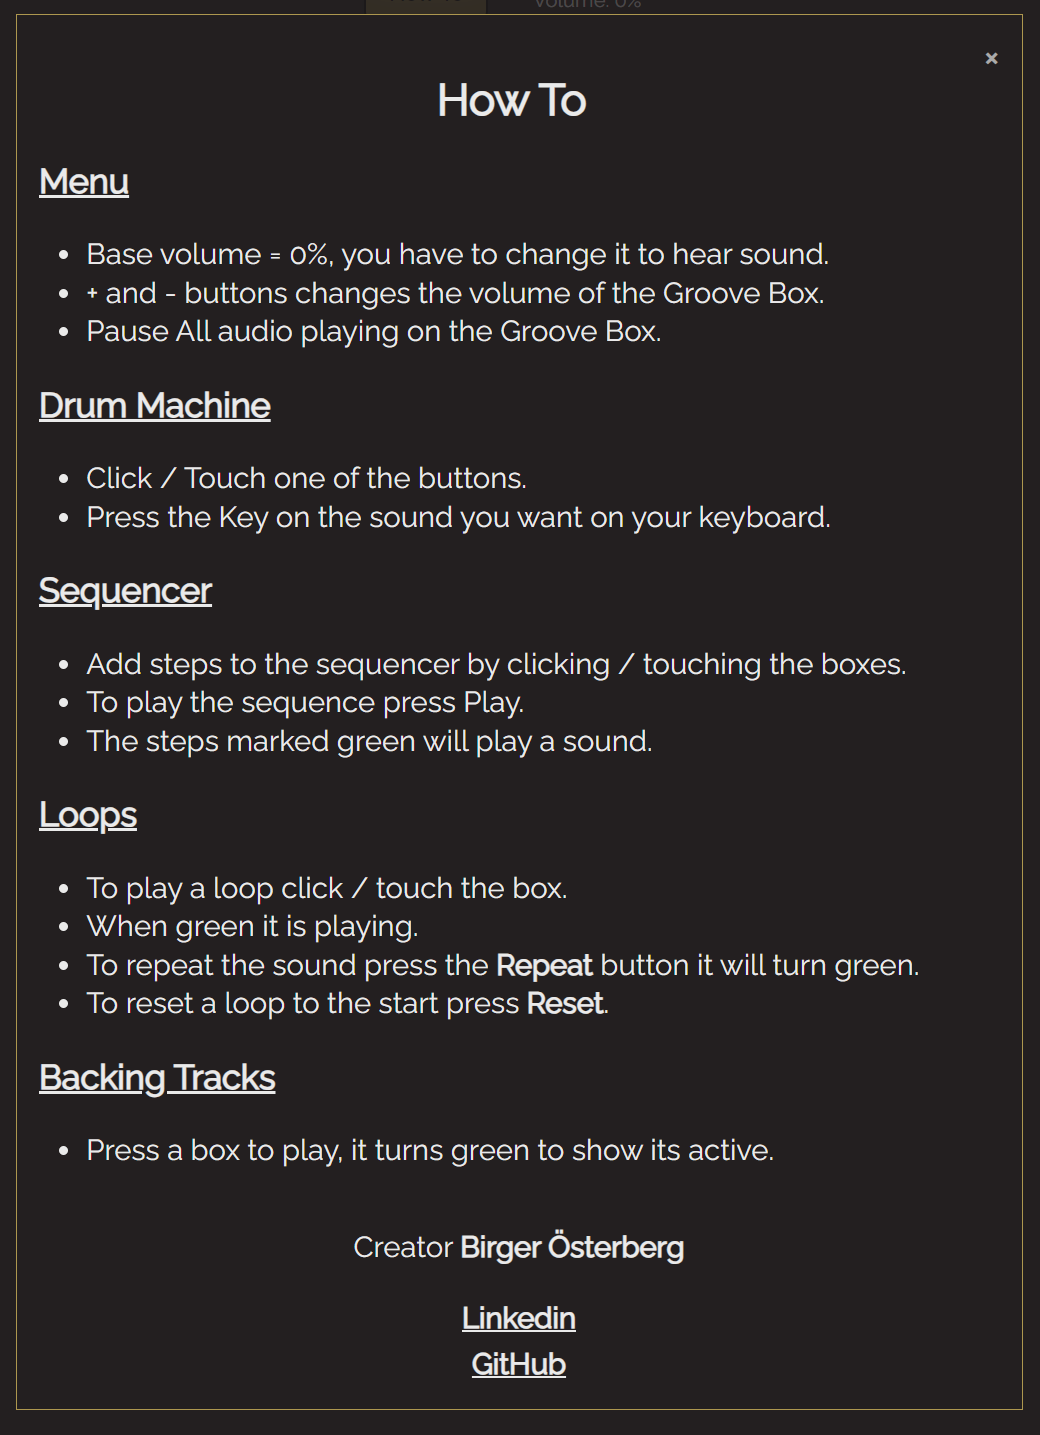
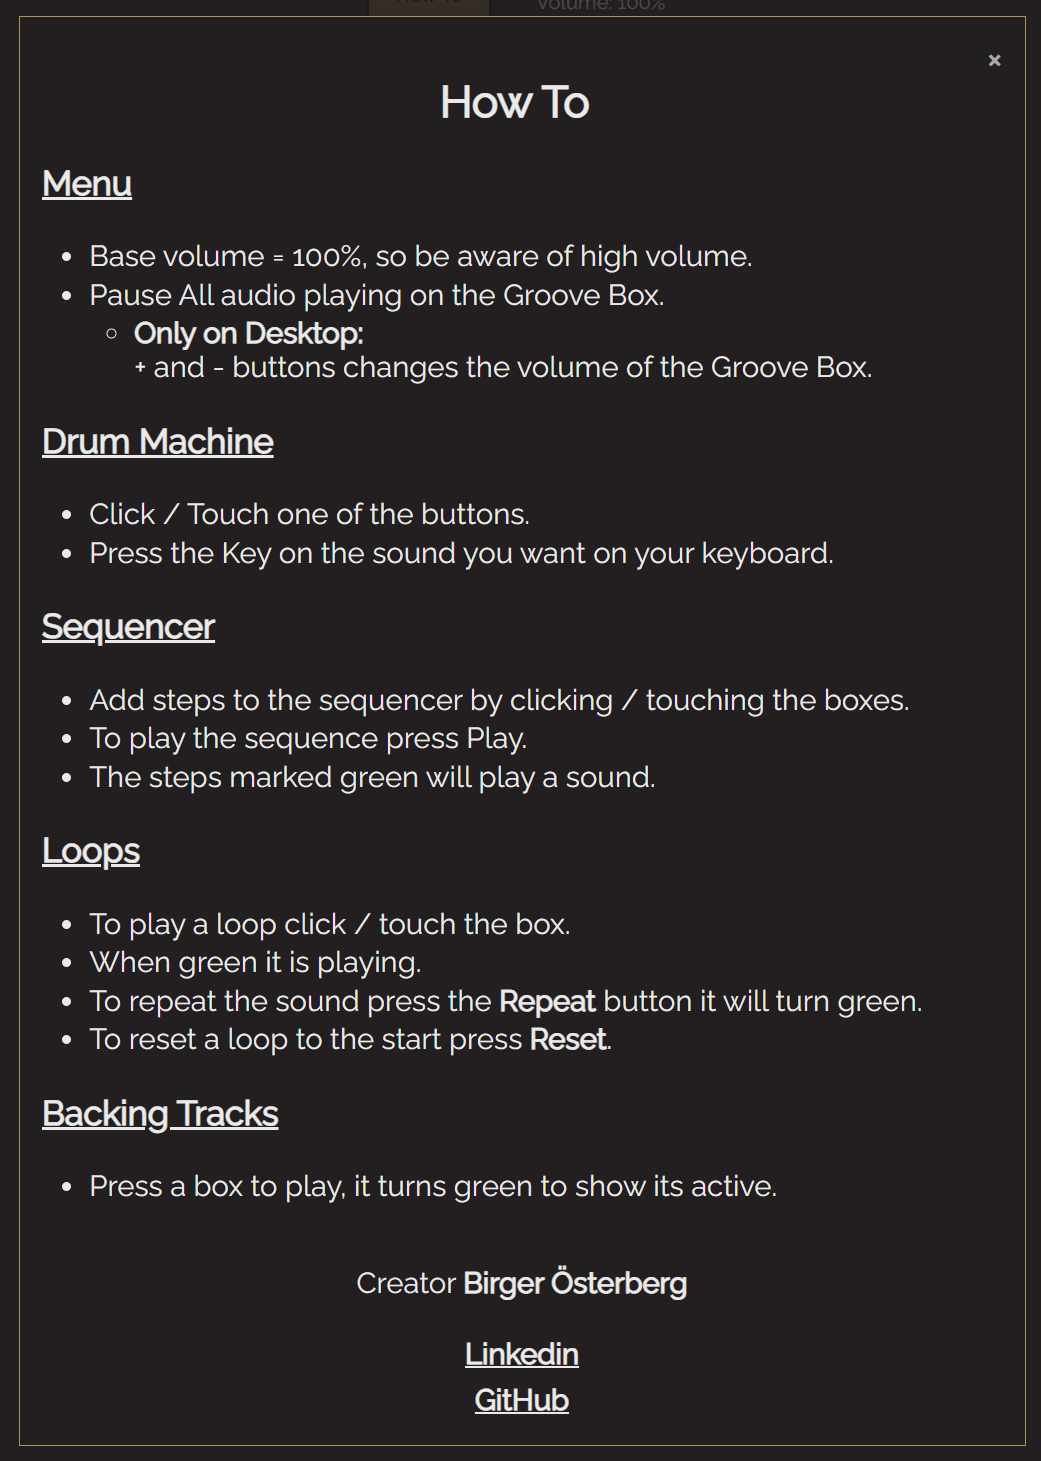
readme add testing

diff --git a/assets/js/index.js b/assets/js/index.js
@@ -193,7 +193,7 @@ function keyPlay(event) {
 }
 
 //
-//    Trying to get this sequencer to work!
+//    My sequencer playing a kick drum sound! Untz Untz!
 //
 
 const sequencers = document.querySelectorAll(".sequencer"); // selects all the elements with the class name of sequencer.
@@ -243,7 +243,7 @@ function playActiveSequencers() {
   currentStep = (currentStep + 1) % sequencers.length;
 
   if (isPlaying) {
-    setTimeout(playActiveSequencers, 300); // Add a delay between each step ToDo: (add choices to change the BPM!)
+    setTimeout(playActiveSequencers, 400); // Add a delay between each step ToDo: (add choices to change the BPM!)
   }
 }
 

diff --git a/README.md b/README.md
@@ -47,7 +47,7 @@ I have implemented a basic h1 header as the logo, featuring a sleek and elegant 
 
 ### **Menu**
 
-I've added a menu at the top of the groove box with a "How To" section for instructions and a pause button to stop all active audio. It also includes a volume control with a text display showing the percentage and + / - buttons for 10% adjustments. This menu enhances usability and offers quick access to important features for an improved user experience.
+I've added a menu at the top of the groove box with a "How To" section for instructions and a pause button to stop all active audio. It also includes a volume control with a text display showing the percentage and + / - buttons for 10% adjustments. The volume control specifically works on desktop setups as volume adjustments on mobile and tablet devices are easily accessible. This menu enhances usability and offers quick access to important features for an improved user experience.
 
 The How To is also where i decided to put what usually is footer content with info about me and contact details, to keep the Groove Box just as that, a Groove Box, giving it a more "App" feeling and something elegant.
 
@@ -235,7 +235,7 @@ I strived to achieve near-perfect scores across all metrics, aiming for a solid 
 
 ### **Validation**
 
-W3C Testing reported errors related to the usage of aria-labels on the div elements. These errors were triggered because i used the tab navigation design to navigate through the elements and had to provide explanations for their functionalities. To enhance accessibility, I also included the accesskey attribute.
+W3C Testing reported errors related to the usage of aria-labels on the div elements. These errors were triggered because i used the tab navigation design to navigate through the elements and had to provide explanations for their functionalities. Also i had to add aria-labels to the sequencer div boxes to further enhance accessibility, I also included the accesskey attribute.
 
 In order to address the warnings, I had the option to remove the explanations. However, I believe that I should consider the warnings as an opportunity to improve accessibility.
 
@@ -245,9 +245,83 @@ Jigsaw passed without any warnings!
 
 ![jigsaw](assets/readme/jigsaw.png)
 
-In the Jshint report, it states that there are seven unused variables in my code. This is because I reference them inside the HTML through onclick handlers. Afterwards, i considered using click listeners instead, which would have resolved the issue. However, I decided to stick with the current approach for the sake of consistency since i had already implemented it this way. Additionally, rewriting the code would have required considerable effort and i didn't have the energy nor time to undertake that task at the time.
+In the Jshint report, it states that there are five unused variables in my code. This is because I reference them inside the HTML through onclick handlers. Afterwards, i considered using click listeners instead, which would have resolved the issue. However, I decided to stick with the current approach for the sake of consistency since i had already implemented it this way. Additionally, rewriting the code would have required considerable effort and i didn't have the energy nor time to undertake that task at the time.
 
 ![jshint](assets/readme/jshint.png)
+
+### **Testing the Groove Box**
+
+- How To: Opens modal, works as intended.
+
+  - X Closes the modal, also Escape key closes the modal, works as intended.
+
+---
+
+- Pause All: Pause all audio playing, works as intended.
+
+---
+
+- Volume (**Desktop Only**)
+  - Clicking on + increases the volume and updates the Volume % text, works as intended.
+  - Clicking on + decreases the volume and updates the Volume % text, works as intended.
+
+---
+
+- Navigation
+
+  - I can switch seamlessly through the different parts of the Groove Box without stopping audio playback, works as intended.
+
+---
+
+- Drum Machine
+
+  - Clicking / Touch on the button plays a sound, gives feedback, works as intended.
+  - Keyboard interaction plays sound and show what key is pressed, works as intended.
+
+---
+
+- Sequencer
+
+  - Clicking / Touch on the boxes adds a green light, works as intended.
+  - Clicking / Touch Play changes the button into Pause, while it starts the sequencer, works as intended.
+  - The sequencer plays a sound on the step that got a green light, works as intended.
+  - The sequencer shows what step it is at, works as intended.
+
+---
+
+- Loops
+
+  - Clicking / Touch a Loop name starts playback of the sound and marks it green, works as intended.
+  - Clicking / Touch a Loop that is already playing pause the sound and removes the green mark, works as intended.
+  - Clicking / Touch Repeat marks the button as green, then loop the sound, works as intended.
+  - Clicking / Touch Repeat that already is marked green, removes the green mark and stops looping the sound, works as intended.
+  - Clicking / Touch Reset restarts the playback of the Loop.
+
+---
+
+- Backing Tracks
+  - Clicking / Touch plays the track and marks it green, works as intended.
+  - Clicking / Touch a track that plays removes the green marking and pause the track, works as intended.
+
+---
+
+### **Trial and Error**
+
+During this project i have had the most problems with getting things working the same on mobile and desktop platforms, the biggest Throughout this project, I encountered several challenges in achieving consistent functionality across both mobile and desktop platforms. My main hurdle was relying on the "responsive" mobile mode in the browser's development tools, mistakenly assuming it accurately simulated the behavior of actual mobile devices. This oversight resulted in numerous bugs that became apparent only when testing the deployed version on real devices. Fortunately, with the help of friends and family, I was able to identify any overlooked issues and make the necessary adjustments to improve the Groove Box's performance.
+
+### **Issues**
+
+- Volume control: I encountered difficulties with implementing the volume control feature for mobile devices. Despite attempting various solutions, i ultimately decided to remove the feature for mobile devices altogether. This decision was based on the realization that mobile devices already have readily accessible volume controls, making an additional control redundant. I still mourn the removal of the volume slider though!
+
+- Pause All: I encountered a challenge with the "Pause All" functionality, as it initially failed to stop the sequencer. After resolving this issue, a new problem arose where the sequencer became buggy. However, I managed to find fixes for these problems by implementing an if statement. This allowed me to address the issues and ensure that the "Pause All" function properly halts all active audio elements, including the sequencer.
+
+- Drum Machine: I encountered the need to incorporate a visual effect when a key is pressed on the keyboard. However, i faced a similar challenge as mentioned before, where the touch functionality on phones did not provide the expected visual feedback of a clicked button. To overcome this, i implemented a solution where a class is added each time the function is executed, regardless of whether it is triggered by a button click / touch or a key press. By dynamically applying this class, I was able to achieve consistent visual feedback for both interactions. Additionally, i included an if-else statement to handle scenarios where no sound is associated with the pressed key. This adjustment prevented any errors from occurring in the console.
+
+- Sequencer: The implementation of the Sequencer feature proved to be a significant challenge. I dedicated a considerable amount of time to solving this complex task. Once I finally found a solution, I realized the need for visual feedback indicating the current step being played. Initially, I implemented a solution that only displayed feedback on the steps I had explicitly marked. However, upon further reflection, I realized that the solution could be simplified. By moving the feedback outside of the if statement within the foreach loop, I was able to achieve the desired result.
+
+- Loops: When pressing the Reset button, as well as the Repeat button, I encountered the same issue where the shared function for both the Loop and Backing Tracks caused interference. To overcome this challenge, I implemented separate objects with their own statuses, which were dependent on the musicId. By assigning unique statuses to each track, I successfully resolved the conflicts and ensured that the Reset and Repeat buttons functioned independently for the Loops.
+
+- Backing Tracks: Was initially designed to be basic and straightforward. However, as mentioned earlier, it encountered an issue where it interfered with the reset and repeat functionality of the Loops.
 
 ---
 
@@ -317,15 +391,3 @@ https://www.wikiloops.com/tracks/Jazz-without-Drums.php
 ## Buggs
 
 Fixes:
-
-Instead of having play / pause button i made toggle for music playback.
-
-Added if check if audio is found or not because it was giving error message in the consle when i i pressed a key that didnt exist else!
-
-Using data-key function for the pad sample player so i can reuse the function and i only have to give the onclick the same number as the data-key that i use for the "keyPlay" function. Reusing as much as possible!
-
-When pressing Reset button due to both the Loop and Backing Tracks play music with the same function they disturb eachother... Have to make my own functions for each of them to work properly.
-
-Fixed by adding objects with their own status depending on the musicId!
-
-Volume set to 0 when page load not working on mobile, scraping idea and letting it be as it is as default, to have a working groove box!
